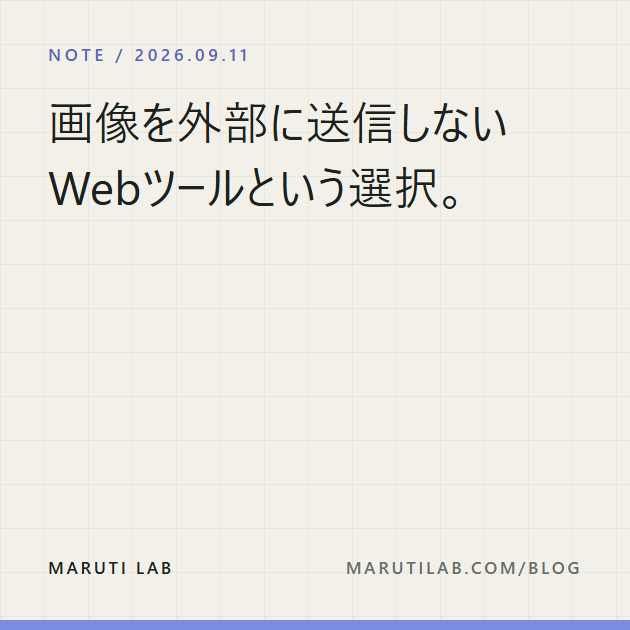
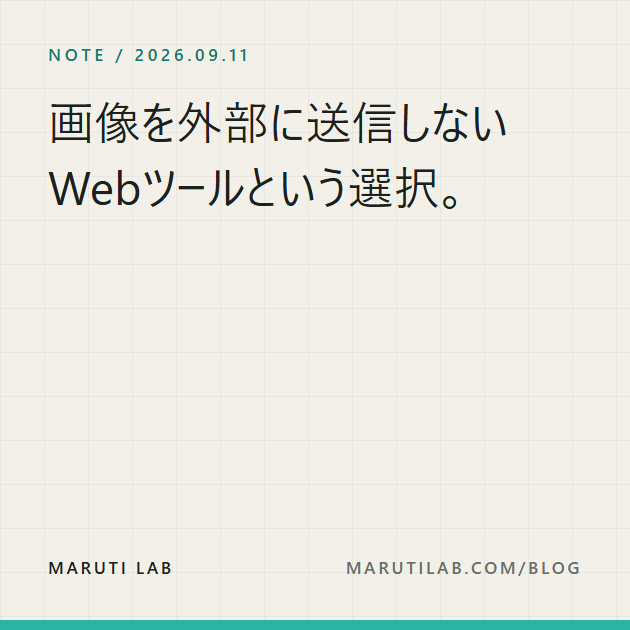
Use the teal from the Bit of MarutiBit, not the periwinkle
Periwinkle is a game's package colour. The blue that belongs to MarutiBit is
the teal in the wordmark itself, which is what the notes should be borrowing.
Text set in it is darkened to #17796e so it still reads on paper.

diff --git a/app/globals.css b/app/globals.css
@@ -143,10 +143,10 @@ footer{padding-top:34px;padding-bottom:34px}
 
 /* Notes. The grid stays on the page - it is the site's ground - but the
    article is lifted off it onto a sheet of plain paper, so the 44px lines
-   never run through a line of body text. Periwinkle is MarutiBit's blue and
-   marks everything structural here: the date, the tags, the rule before each
-   heading, the links. */
-.notePage{--note-accent:#7B8CDE}
+   never run through a line of body text. The accent is the teal from the Bit
+   of the MarutiBit wordmark, and it marks everything structural here: the
+   date, the tags, the rule before each heading, the links. */
+.notePage{--note-accent:#2BB3A3}
 .notePage .eyebrow{color:var(--note-accent)}
 .noteSheet{width:min(860px,calc(100% - 40px));margin:clamp(46px,6vw,84px) auto;background:var(--paper);border:1px solid var(--line);border-top:4px solid var(--note-accent);box-shadow:0 22px 50px rgba(41,39,32,.07);padding:0 clamp(26px,5vw,64px)}
 .noteSheet .blogIndex,.noteSheet .postDocument,.noteSheet .postFooter{width:auto;margin:0}
@@ -154,14 +154,14 @@ footer{padding-top:34px;padding-bottom:34px}
    way in, so anyone reading down the page never learned the notes existed. */
 .notesSection{padding:clamp(90px,12vw,170px) clamp(24px,5vw,76px);border-top:1px solid var(--line)}
 .notesList{list-style:none;margin:0;padding:0;display:grid;grid-template-columns:1fr 1fr;gap:0 clamp(30px,5vw,70px)}
-.notesList li{border-top:2px solid #7B8CDE}
+.notesList li{border-top:2px solid #2BB3A3}
 .notesList a{display:block;padding:30px 0 34px}
-.notesList time{font:500 10px/1 "Yu Gothic UI",sans-serif;letter-spacing:.2em;color:#7B8CDE}
+.notesList time{font:500 10px/1 "Yu Gothic UI",sans-serif;letter-spacing:.2em;color:#1b8579}
 .notesList h3{font-size:clamp(19px,1.9vw,23px);font-weight:500;line-height:1.65;margin:14px 0 0}
-.notesList a:hover h3{color:#4f61b4}
+.notesList a:hover h3{color:#17796e}
 .notesList p{font-size:13px;line-height:2;color:var(--muted);margin:12px 0 0}
 .notesMore{display:inline-block;margin-top:18px;font:500 10px/1 "Yu Gothic UI",sans-serif;letter-spacing:.12em;border-bottom:1px solid var(--line);padding-bottom:6px}
-.notesList a:hover .notesMore{border-color:#4f61b4;color:#4f61b4}
+.notesList a:hover .notesMore{border-color:#17796e;color:#17796e}
 .notesAll{display:inline-block;margin-top:52px}
 @media(max-width:900px){.notesList{grid-template-columns:1fr}}
 
@@ -178,10 +178,10 @@ footer{padding-top:34px;padding-bottom:34px}
 .postList a{display:block;padding:34px 0}
 .postList time{font:500 10px/1 "Yu Gothic UI",sans-serif;letter-spacing:.2em;color:var(--note-accent)}
 .postList h2{font-size:clamp(20px,2.4vw,26px);font-weight:500;line-height:1.6;margin:14px 0 0}
-.postList a:hover h2{color:#4f61b4}
+.postList a:hover h2{color:#17796e}
 .postList p{font-size:13px;line-height:2;color:var(--muted);margin:12px 0 0;max-width:38em}
 .postMeta{display:flex;align-items:center;gap:10px;margin-top:16px;font:500 10px/1 "Yu Gothic UI",sans-serif;letter-spacing:.12em;color:var(--muted)}
-.postMeta b{font-weight:500;border:1px solid var(--note-accent);border-radius:999px;padding:5px 10px;color:#5566b8}
+.postMeta b{font-weight:500;border:1px solid var(--note-accent);border-radius:999px;padding:5px 10px;color:#1b8579}
 .postMeta i{font-style:normal;margin-left:auto}
 .postDocument{padding:clamp(56px,7vw,88px) 0 40px}
 .postDocument h1{font-size:clamp(30px,4.4vw,50px);font-weight:400;line-height:1.5;margin:0 0 26px}
@@ -192,8 +192,8 @@ footer{padding-top:34px;padding-bottom:34px}
 .postBody h2:before{content:"";position:absolute;top:-2px;left:0;width:46px;height:3px;background:var(--note-accent)}
 .postBody h3{font-size:16px;font-weight:600;line-height:1.7;margin:42px 0 14px;color:var(--ink)}
 .postBody p{margin:0 0 26px}
-.postBody a{color:#4f61b4;border-bottom:1px solid rgba(123,140,222,.5)}
-.postBody a:hover{border-color:#4f61b4}
+.postBody a{color:#17796e;border-bottom:1px solid rgba(43,179,163,.55)}
+.postBody a:hover{border-color:#17796e}
 .postBody strong{font-weight:600;color:var(--ink)}
 /* Tailwind's preflight strips list markers, so put them back here. */
 .postBody ul,.postBody ol{margin:0 0 26px;padding-left:1.5em}
@@ -214,7 +214,7 @@ footer{padding-top:34px;padding-bottom:34px}
 .postFooter ul{list-style:none;margin:0;padding:0;border-top:1px solid var(--line)}
 .postFooter li{border-bottom:1px solid var(--line)}
 .postFooter a{display:flex;align-items:baseline;gap:20px;padding:22px 0;font-size:14px}
-.postFooter a:hover{color:#4f61b4}
+.postFooter a:hover{color:#17796e}
 .postFooter time{flex:0 0 auto;font:500 10px/1 "Yu Gothic UI",sans-serif;letter-spacing:.16em;color:var(--note-accent)}
 @media(max-width:640px){.postBody{font-size:14.5px;line-height:2.05}.postBody h2{margin-top:48px}.postFooter a{flex-direction:column;gap:8px}}
 

diff --git a/app/og-preview/ogPreview.module.css b/app/og-preview/ogPreview.module.css
@@ -176,13 +176,13 @@
   color: #1c211e;
   display: flex;
   flex-direction: column;
-  border-bottom: 10px solid #7B8CDE;
+  border-bottom: 10px solid #2BB3A3;
 }
 .note .noteEyebrow {
   margin: 0;
   font: 500 17px/1 "Yu Gothic UI", sans-serif;
   letter-spacing: 0.22em;
-  color: #5566b8;
+  color: #17796e;
 }
 .note h1 {
   margin: 34px 0 0;
